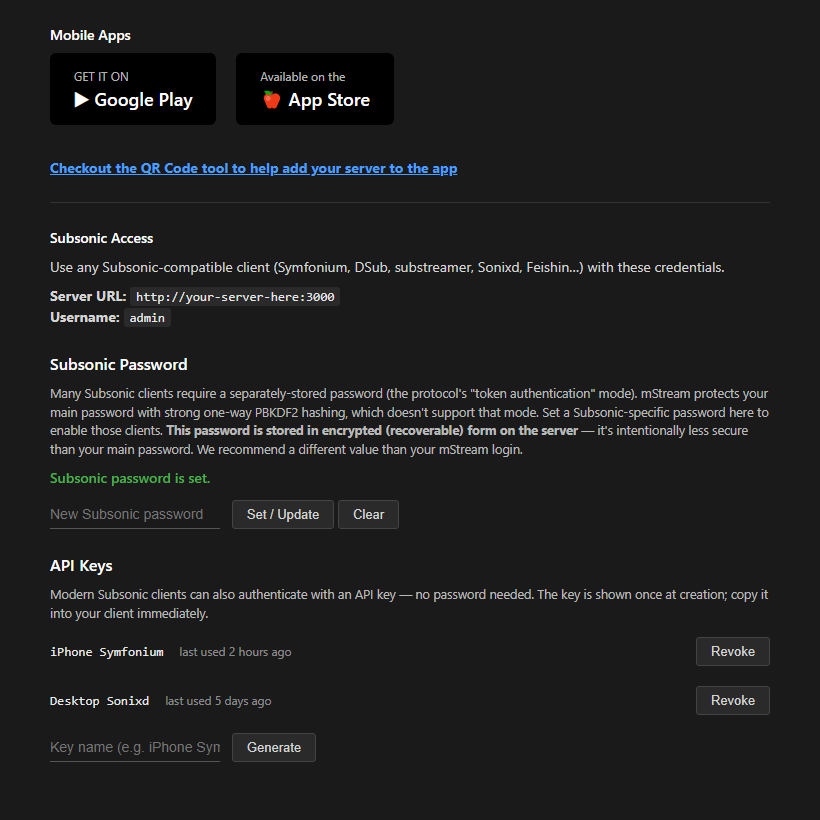
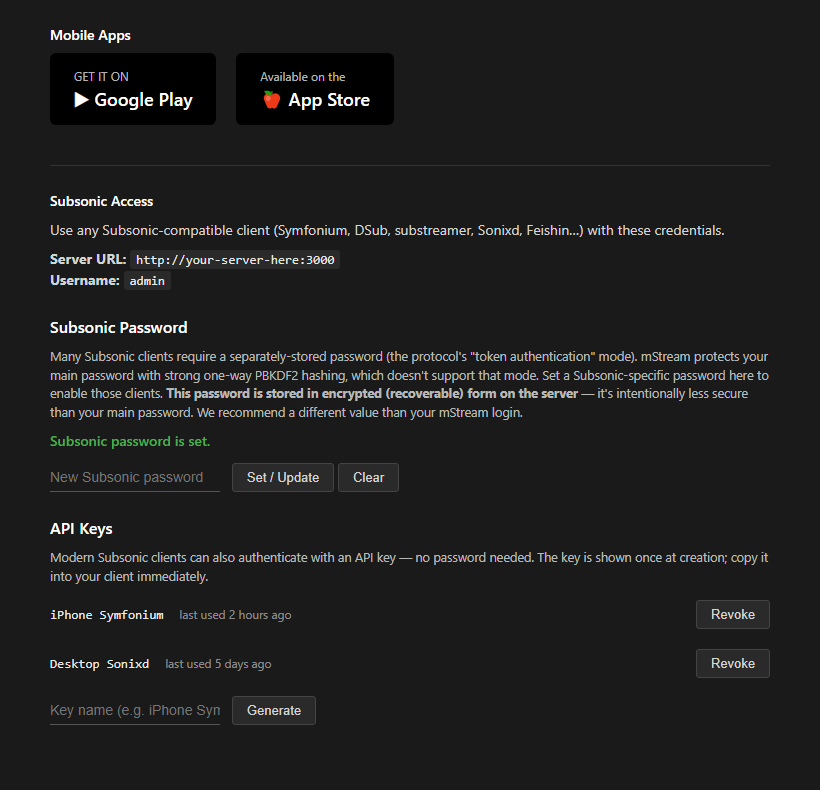
chore(mobile-panel): comment out QR-code-tool link
The /qr generator's add-server flow isn't supported by the current
mobile apps, so the link advertises a feature that doesn't actually
work for users today. HTML-comment it out (rather than delete) so
re-enabling is a one-line revert when the apps catch up.

Screenshot in docs/designs/subsonic-panel.png regenerated to match.

Changed region(s): [[0.061, 0.243, 0.9451, 0.9418], [0.061, 0.0304, 0.5793, 0.2127], [0.8537, 0.7595, 0.9451, 0.881]]

diff --git a/webapp/alpha/m.js b/webapp/alpha/m.js
@@ -1963,9 +1963,13 @@ async function getMobilePanel(){
       </a>
     </div>
     <br>
+    <!--
+      QR-code tool link disabled — the current mobile apps don't support
+      the QR-add-server flow it generates. Re-enable when the apps catch up.
     <div class="pad-6">
       <a target="_blank" href="/qr"><b>Checkout the QR Code tool to help add your server to the app</b></a>
-    </div>`;
+    </div>
+    -->`;
 
   if (subsonicEnabled) {
     const serverUrl = window.location.origin;